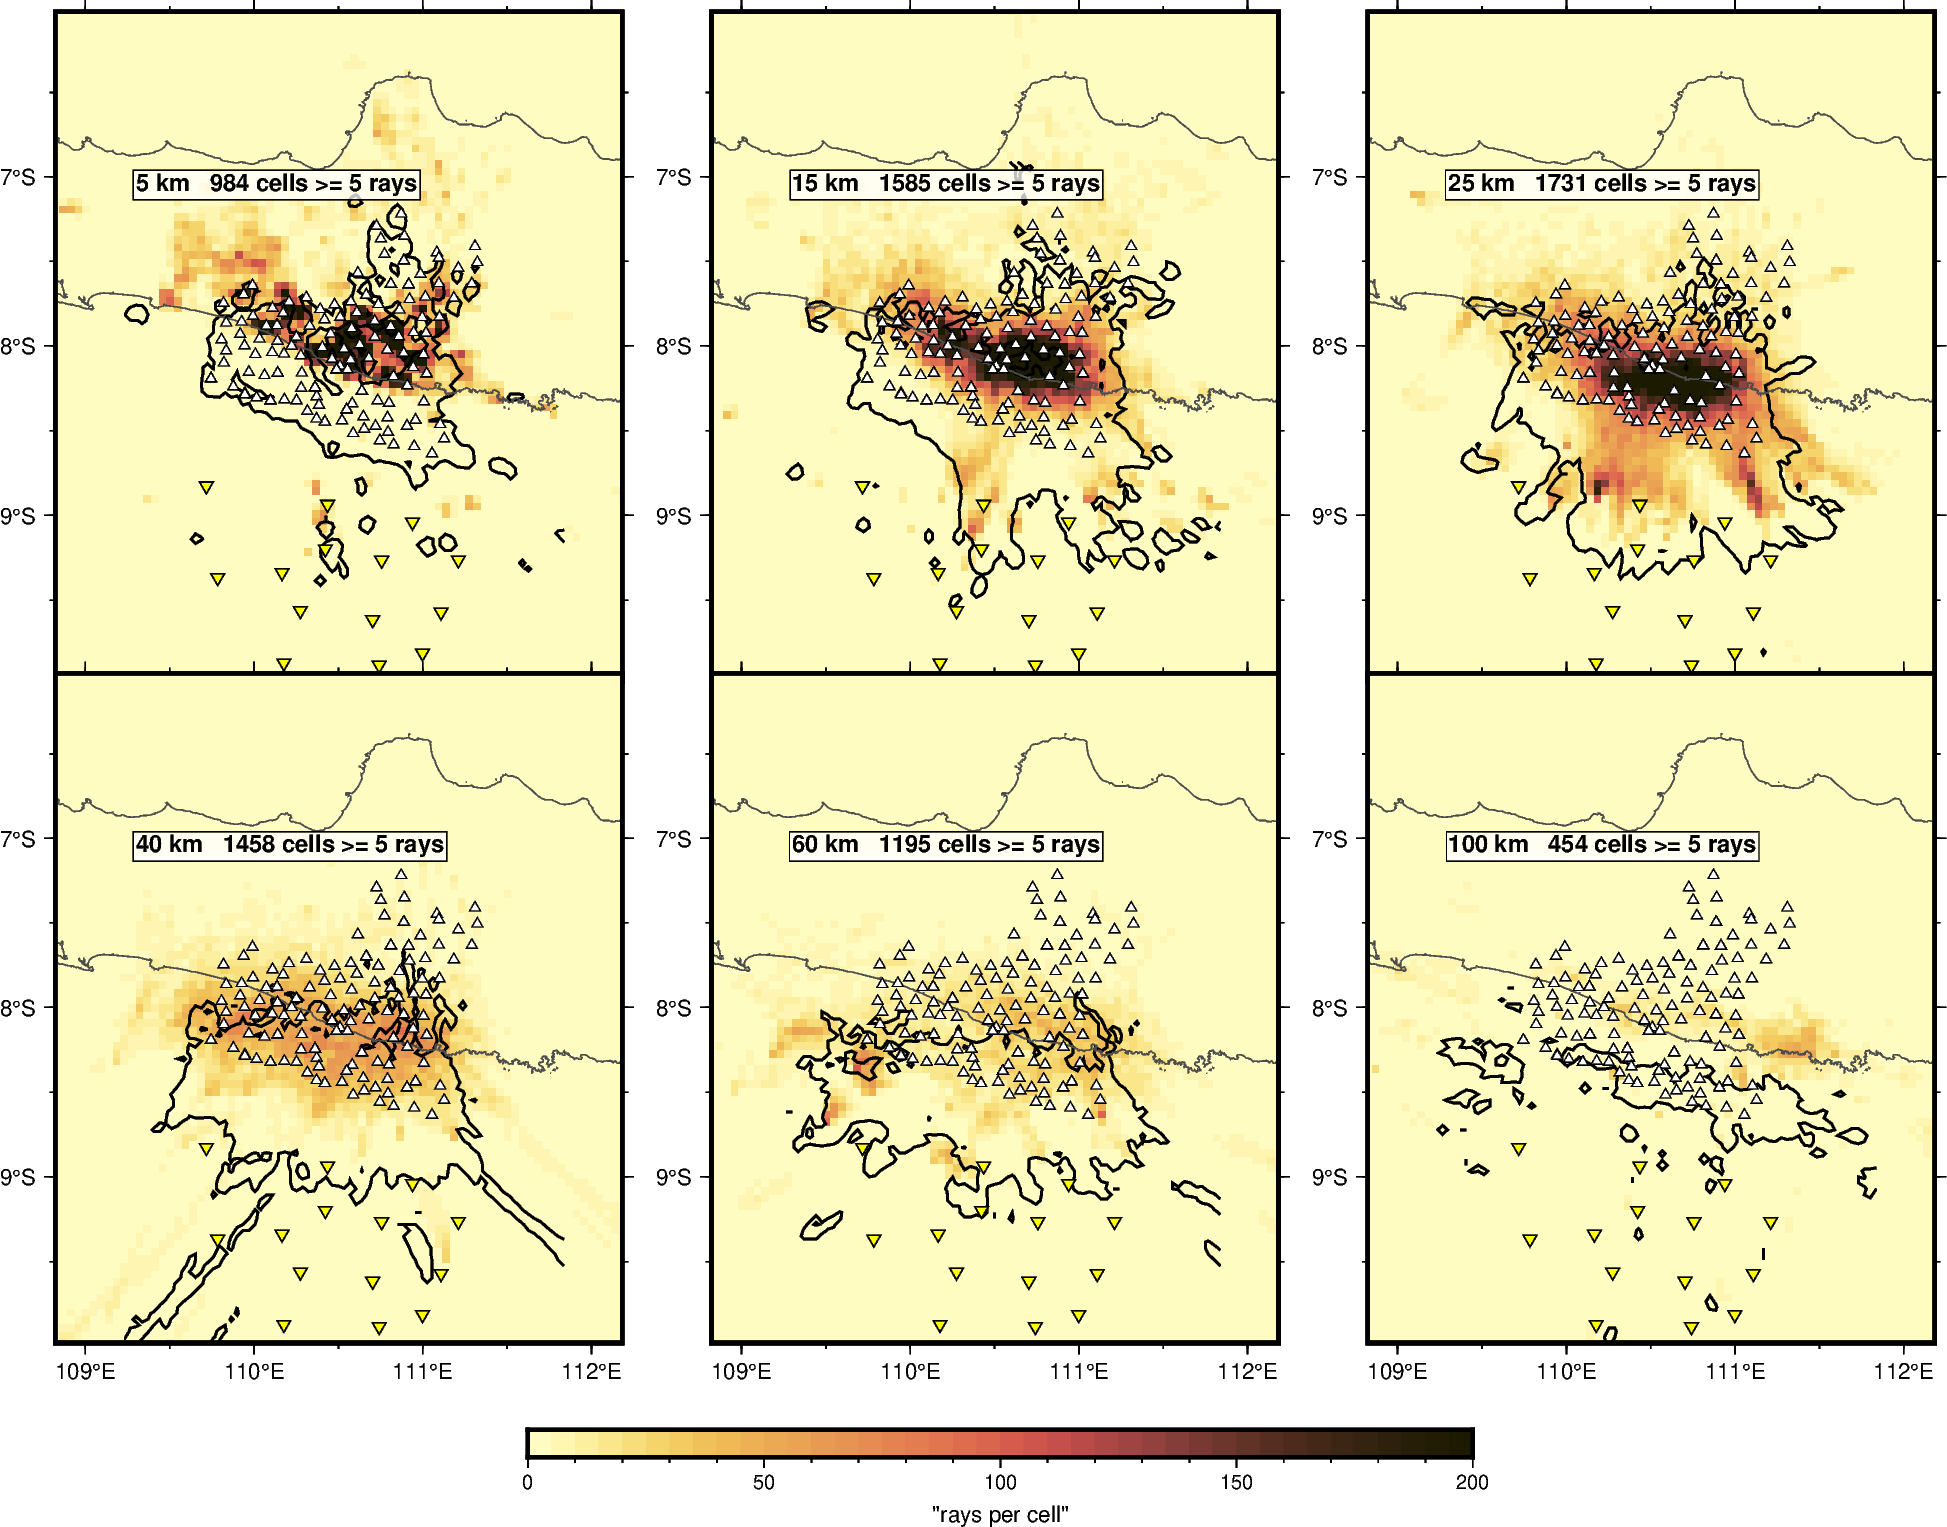
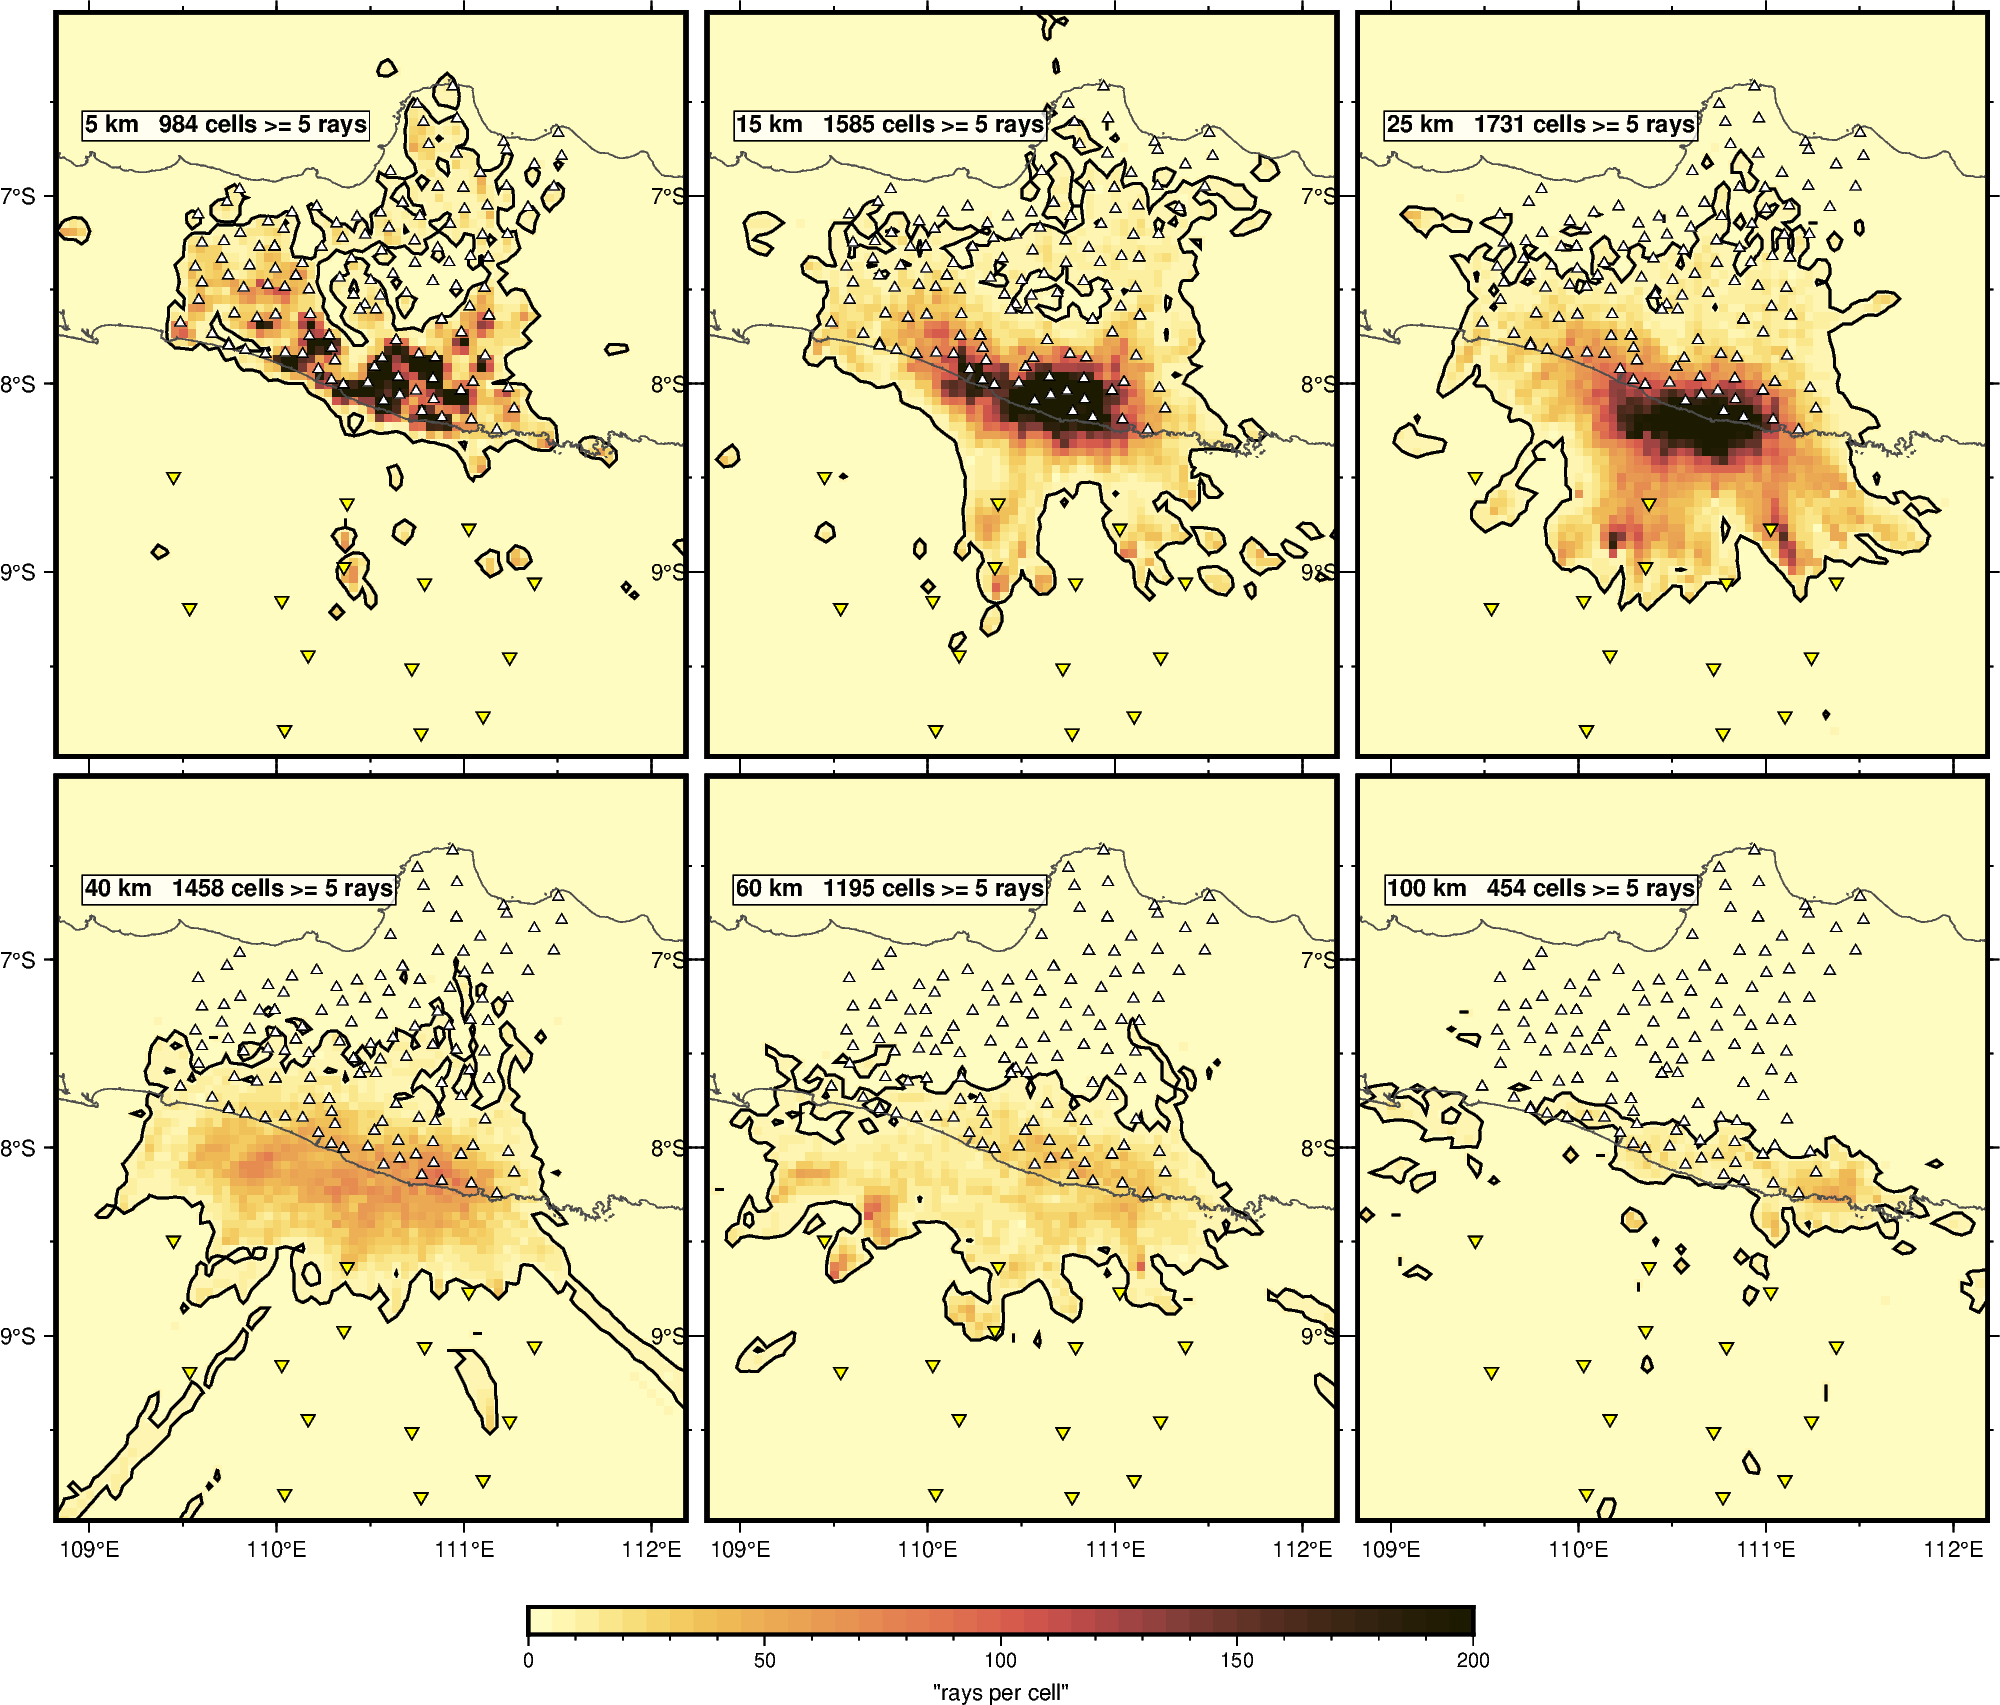
MERAMEX 2004: fix alignment in tomo_coverage.py
The subplot was not properly honoring the region and projection specification on
each plotting call, causing the shorelines to shift and stations to misalign with
the grid. Fixed by explicitly specifying region and projection on every
grdimage, grdcontour, coast, and plot call, not just the first grdimage. Also
increased figure height to accommodate proper Mercator aspect ratio (1.189).

Shorelines and stations now align correctly with the ray-coverage grid.

diff --git a/MERAMEX_2004/scripts/plot_tomo_coverage.py b/MERAMEX_2004/scripts/plot_tomo_coverage.py
@@ -47,7 +47,9 @@ def main():
                  MAP_FRAME_TYPE="plain")
     pygmt.makecpt(cmap="lajolla", series=[0, 200, 5], reverse=True, background=True)
 
-    with fig.subplot(nrows=2, ncols=3, figsize=("24c", "15c"), margins=["0.5c", "0.9c"],
+    # Mercator aspect ratio: height/width ~ 1.189 at this latitude
+    # panels need to be taller to keep proper shape
+    with fig.subplot(nrows=2, ncols=3, figsize=("24c", "18c"), margins=["0.4c", "0.7c"],
                      frame="lrtb"):
         for panel, zc in enumerate(depths):
             k = int(np.clip(zc / dz, 0, nz - 1))
@@ -57,16 +59,16 @@ def main():
                     x=np.repeat(lon, nlat), y=np.tile(lat, nlon),
                     z=layer.T.ravel(), region=region,
                     spacing=(float(g["dlon"]), float(g["dlat"])))
-                fig.grdimage(grd, region=region, projection="M7.2c",
+                fig.grdimage(grd, region=region, projection="M8.0c",
                              cmap=True, nan_transparent=True)
                 fig.grdcontour(grd, levels=[a.minhit], pen="0.9p,black",
-                               annotation=None)
-                fig.coast(region=region, projection="M7.2c", shorelines="0.4p,gray30",
+                               annotation=None, region=region, projection="M8.0c")
+                fig.coast(region=region, projection="M8.0c", shorelines="0.4p,gray30",
                           frame=["WSne", "xa1f0.5", "ya1f0.5"])
                 fig.plot(x=sta.longitude, y=sta.latitude, style="t0.16c",
-                         fill="white", pen="0.3p,black")
+                         fill="white", pen="0.3p,black", region=region, projection="M8.0c")
                 fig.plot(x=obs.lon, y=obs.lat, style="i0.20c",
-                         fill="yellow", pen="0.4p,black")
+                         fill="yellow", pen="0.4p,black", region=region, projection="M8.0c")
                 nres = int((layer >= a.minhit).sum())
                 fig.text(position="TL", offset="0.15c/-0.15c", justify="TL",
                          text=f"{zc:.0f} km   {nres} cells >= {a.minhit} rays",
